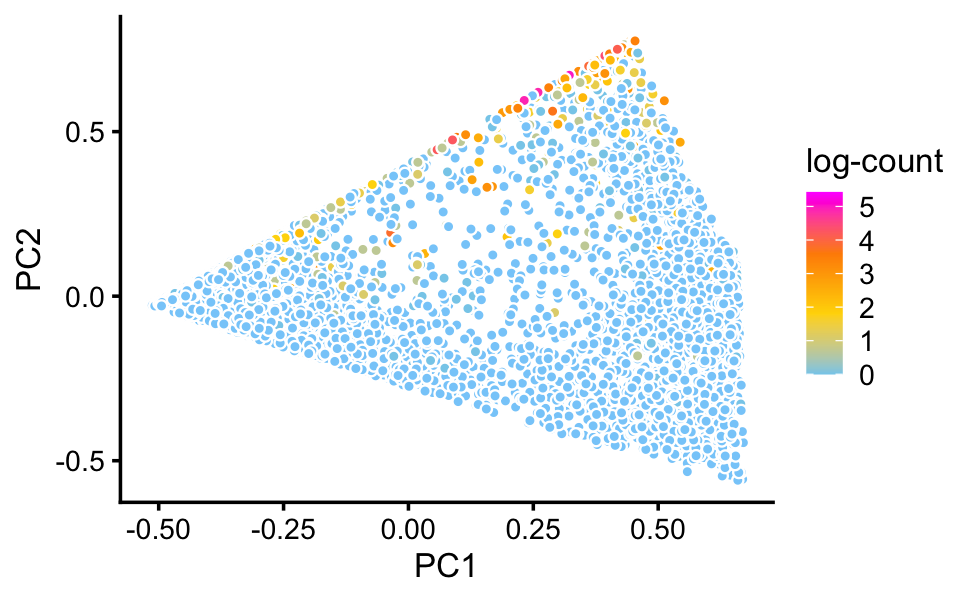
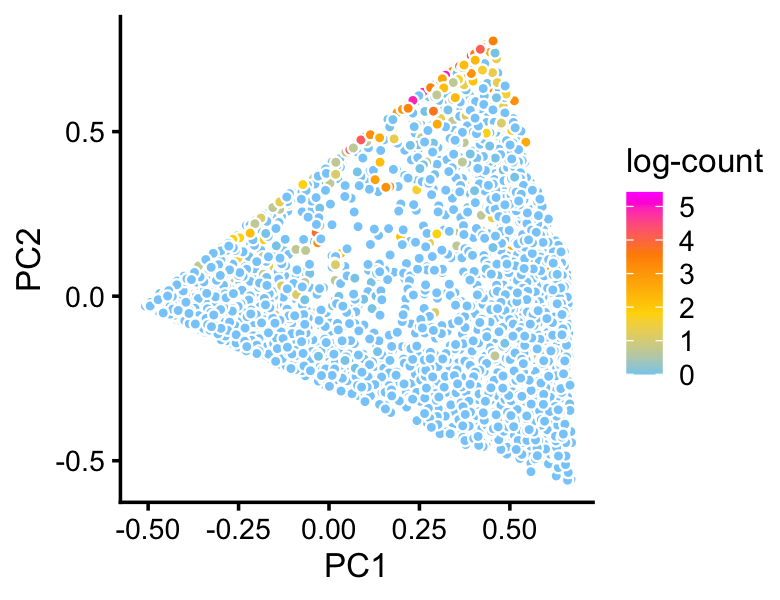
Resized plot in clusters_droplet analysis.

diff --git a/docs/clusters_droplet.html b/docs/clusters_droplet.html
@@ -414,23 +414,22 @@ This reproducible <a href="http://rmarkdown.rstudio.com">R Markdown</a> analysis
 <div class="panel panel-default">
 <div class="panel-heading">
 <p class="panel-title">
-<a data-toggle="collapse" data-parent="#workflowr-checks" href="#strongRepositoryversionstrongahrefhttpsgithubcomstephenslabsinglecelltopicstree54f44d3ba8417cf7f20dbc146eb58dbf97ffd5a4targetblank54f44d3a"> <span class="glyphicon glyphicon-ok text-success" aria-hidden="true"></span> <strong>Repository version:</strong> <a href="https://github.com/stephenslab/single-cell-topics/tree/54f44d3ba8417cf7f20dbc146eb58dbf97ffd5a4" target="_blank">54f44d3</a> </a>
+<a data-toggle="collapse" data-parent="#workflowr-checks" href="#strongRepositoryversionstrongahrefhttpsgithubcomstephenslabsinglecelltopicstree306f5dcd98ae0eb0e656e58b7cc7d70d752e773atargetblank306f5dca"> <span class="glyphicon glyphicon-ok text-success" aria-hidden="true"></span> <strong>Repository version:</strong> <a href="https://github.com/stephenslab/single-cell-topics/tree/306f5dcd98ae0eb0e656e58b7cc7d70d752e773a" target="_blank">306f5dc</a> </a>
 </p>
 </div>
[2 lines of base64/hex data omitted]
 <div class="panel-body">
 <p>
 Great! You are using Git for version control. Tracking code development and connecting the code version to the results is critical for reproducibility.
 </p>
 <p>
-The results in this page were generated with repository version <a href="https://github.com/stephenslab/single-cell-topics/tree/54f44d3ba8417cf7f20dbc146eb58dbf97ffd5a4" target="_blank">54f44d3</a>. See the <em>Past versions</em> tab to see a history of the changes made to the R Markdown and HTML files.
+The results in this page were generated with repository version <a href="https://github.com/stephenslab/single-cell-topics/tree/306f5dcd98ae0eb0e656e58b7cc7d70d752e773a" target="_blank">306f5dc</a>. See the <em>Past versions</em> tab to see a history of the changes made to the R Markdown and HTML files.
 </p>
 <p>
 Note that you need to be careful to ensure that all relevant files for the analysis have been committed to Git prior to generating the results (you can use <code>wflow_publish</code> or <code>wflow_git_commit</code>). workflowr only checks the R Markdown file, but you know if there are other scripts or data files that it depends on. Below is the status of the Git repository when the results were generated:
 </p>
 <pre><code>
 Ignored files:
-    Ignored:    analysis/figure/
     Ignored:    data/droplet.RData
     Ignored:    data/pbmc_68k.RData
     Ignored:    data/pbmc_purified.RData
@@ -445,6 +444,9 @@ Ignored files:
     Ignored:    output/pulseseq/diff-count-pulseseq.RData
     Ignored:    output/pulseseq/fits-pulseseq.RData
     Ignored:    output/pulseseq/rds/
+
+Untracked files:
+    Untracked:  analysis/clustering-droplet.rds
 
 </code></pre>
 <p>
@@ -483,6 +485,40 @@ Message
 </tr>
 </thead>
 <tbody>
+<tr>
+<td>
+Rmd
+</td>
+<td>
+<a href="https://github.com/stephenslab/single-cell-topics/blob/306f5dcd98ae0eb0e656e58b7cc7d70d752e773a/analysis/clusters_droplet.Rmd" target="_blank">306f5dc</a>
+</td>
+<td>
+Peter Carbonetto
+</td>
+<td>
+2020-09-27
+</td>
+<td>
+workflowr::wflow_publish(“clusters_droplet.Rmd”)
+</td>
+</tr>
+<tr>
+<td>
+html
+</td>
+<td>
+<a href="https://rawcdn.githack.com/stephenslab/single-cell-topics/bf299b96b71c97ebe700d19ad9de13f44ad23f41/docs/clusters_droplet.html" target="_blank">bf299b9</a>
+</td>
+<td>
+Peter Carbonetto
+</td>
+<td>
+2020-09-27
+</td>
+<td>
+Use pca_plot_with_counts in clusters_droplet analysis.
+</td>
+</tr>
 <tr>
 <td>
 Rmd
@@ -1093,7 +1129,7 @@ Peter Carbonetto
 <p>Topic 4 in particular corresponds closely to expression of <em>Krt13</em> which was identified as being uniquely expressed by transitional “hillock” cells.</p>
 <pre class="r"><code>p10 &lt;- pca_plot_with_counts(fit2,counts[rows,&quot;Krt13&quot;],pcs = 1:2,log = TRUE)
 print(p10)</code></pre>
-<p><img src="figure/clusters_droplet.Rmd/clustering-6-1.png" width="480" style="display: block; margin: auto;" /></p>
+<p><img src="figure/clusters_droplet.Rmd/clustering-6-1.png" width="390" style="display: block; margin: auto;" /></p>
 <p>
 <button type="button" class="btn btn-default btn-xs btn-workflowr btn-workflowr-fig" data-toggle="collapse" data-target="#fig-clustering-6-1">
 Past versions of clustering-6-1.png
@@ -1116,6 +1152,17 @@ Date
 </tr>
 </thead>
 <tbody>
+<tr>
+<td>
+<a href="https://github.com/stephenslab/single-cell-topics/blob/bf299b96b71c97ebe700d19ad9de13f44ad23f41/docs/figure/clusters_droplet.Rmd/clustering-6-1.png" target="_blank">bf299b9</a>
+</td>
+<td>
+Peter Carbonetto
+</td>
+<td>
+2020-09-27
+</td>
+</tr>
 <tr>
 <td>
 <a href="https://github.com/stephenslab/single-cell-topics/blob/0a8b5712281df02f14f686e1b9556794094d97f7/docs/figure/clusters_droplet.Rmd/clustering-6-1.png" target="_blank">0a8b571</a>
